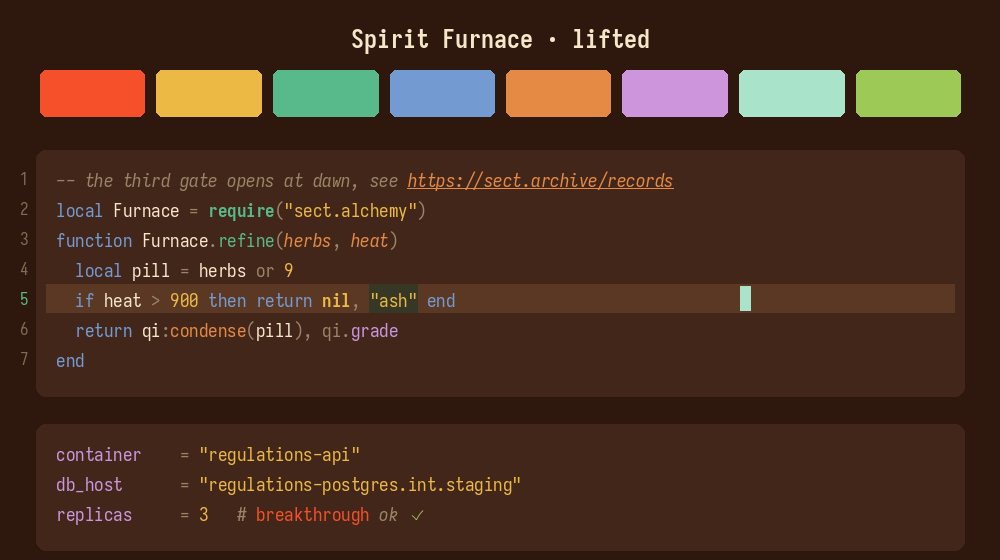
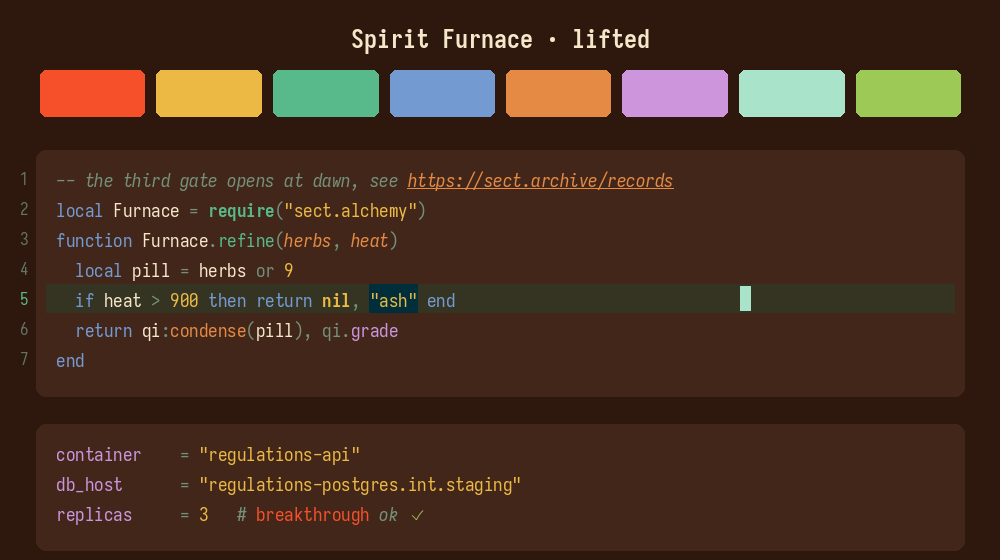
feat: sage comments, jade chrome, deep qing selection

diff --git a/gtk/spirit-furnace-lifted.css b/gtk/spirit-furnace-lifted.css
@@ -10,7 +10,7 @@
 @define-color window_fg_color #f6e7cb;
 @define-color headerbar_bg_color #412619;
 @define-color headerbar_fg_color #f6e7cb;
-@define-color popover_bg_color #5a3824;
+@define-color popover_bg_color #353321;
 @define-color popover_fg_color #f6e7cb;
 @define-color view_bg_color #2e170c;
 @define-color view_fg_color #f6e7cb;

diff --git a/gtk/spirit-furnace.css b/gtk/spirit-furnace.css
@@ -10,7 +10,7 @@
 @define-color window_fg_color #f6e7cb;
 @define-color headerbar_bg_color #33190b;
 @define-color headerbar_fg_color #f6e7cb;
-@define-color popover_bg_color #432310;
+@define-color popover_bg_color #2e2e1d;
 @define-color popover_fg_color #f6e7cb;
 @define-color view_bg_color #261207;
 @define-color view_fg_color #f6e7cb;

diff --git a/README.md b/README.md
@@ -13,8 +13,8 @@ system it shares.
 |---|---|---|---|
 | base (bg) | `#261207` | `#c9b98f` | lacquered rosewood / old scroll |
 | text | `#f6e7cb` | `#2d2216` | scripture |
-| incense | `#9a8467` | `#5e503d` | comments, operators |
-| ash | `#806c55` | `#7c6c56` | line numbers, quiet chrome |
+| incense | `#75907a` | `#5e503d` | comments, operators |
+| ash | `#627665` | `#7c6c56` | line numbers, quiet chrome |
 | heaven | `#749ad2` | `#1d4988` | keywords (azurite sky) |
 | jade | `#58b98a` | `#00563b` | functions (qi) |
 | elixir | `#ebb944` | `#634500` | strings, numbers, constants (gamboge pills) |
@@ -28,8 +28,8 @@ system it shares.
 ### 16-color ANSI (furnace)
 
 ```
-normal   0 #492b1a  1 #f5502a  2 #9dc957  3 #ebb944  4 #749ad2  5 #cc95dc  6 #58b98a  7 #dcceb4
-bright   8 #806c55  9 #ff795a 10 #bae183 11 #ffd579 12 #92b3e4 13 #e2b2f0 14 #81d0a6 15 #f6e7cb
+normal   0 #35442e  1 #f5502a  2 #9dc957  3 #ebb944  4 #749ad2  5 #cc95dc  6 #58b98a  7 #dcceb4
+bright   8 #627665  9 #ff795a 10 #bae183 11 #ffd579 12 #92b3e4 13 #e2b2f0 14 #81d0a6 15 #f6e7cb
 ```
 
 ## Variants
